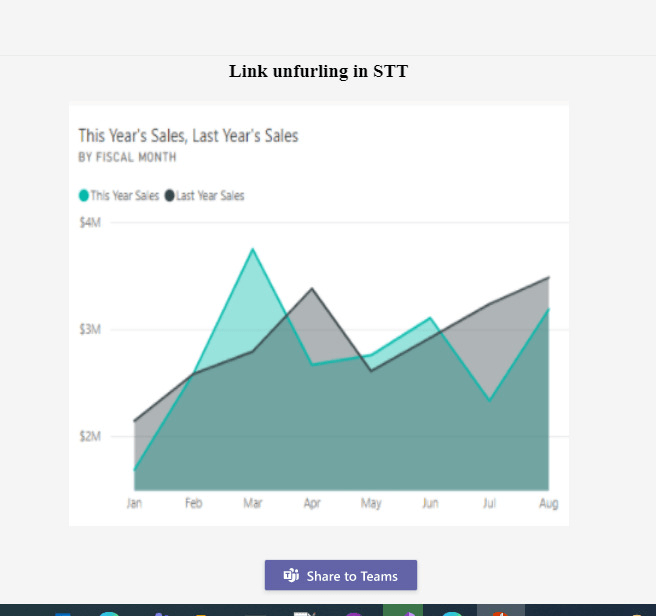
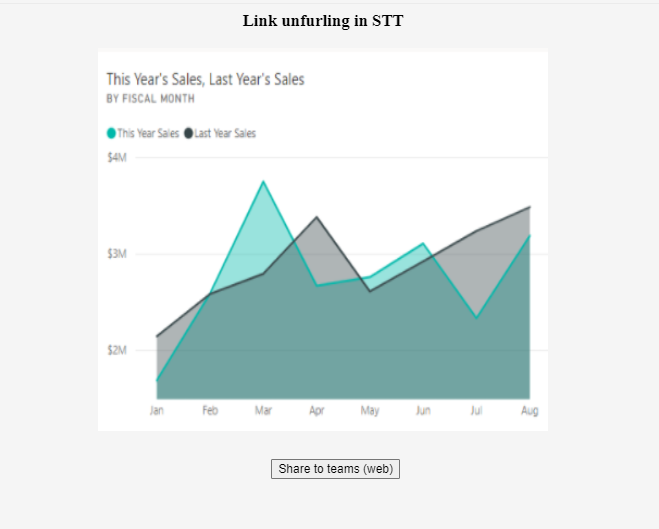
Added stage view functionality with share to teams button using sdk

diff --git a/samples/app-link-unfurling-in-share-to-teams/nodejs/bots/teamsBot.js b/samples/app-link-unfurling-in-share-to-teams/nodejs/bots/teamsBot.js
@@ -47,8 +47,26 @@ class TeamsBot extends TeamsActivityHandler {
             {
                 "type": "Action.OpenUrl",
                 "title": "Open tab",
-                "url": `https://teams.microsoft.com/l/entity/${process.env.MicrosoftAppId}/tab?webUrl=${process.env.ApplicationBaseUrl}/AuthTab`
-              }
+                "url": `https://teams.microsoft.com/l/entity/${process.env.MicrosoftAppId}/tab?webUrl=${process.env.ApplicationBaseUrl}/tab?openInTeams=true`
+              },
+              {
+                "type": "Action.Submit",
+                "title": "View via card",
+                "data": {
+                    "msteams": {
+                        "type": "invoke",
+                        "value": {
+                            "type": "tab/tabInfoAction",
+                            "tabInfo": {
+                                "contentUrl":  process.env.ApplicationBaseUrl + "/tab?openInTeams=true",
+                                "websiteUrl": process.env.ApplicationBaseUrl + "/tab?openInTeams=false",
+                                "name": "Stage view",
+                                "entityId": "entityId"
+                             }
+                            }
+                        }
+                }
+            }
           ]
         }
       

diff --git a/samples/app-link-unfurling-in-share-to-teams/nodejs/static/tab.css b/samples/app-link-unfurling-in-share-to-teams/nodejs/static/tab.css
@@ -6,7 +6,7 @@
    margin-left: 28rem;
 }
 
-#stt-btn {
+#stt-btn-teams, #stt-btn-web {
     margin-left: 40rem;
     margin-top: 2rem;
 }

diff --git a/samples/app-link-unfurling-in-share-to-teams/nodejs/README.md b/samples/app-link-unfurling-in-share-to-teams/nodejs/README.md
@@ -19,9 +19,13 @@ This sample demos the feature of link unfurling for share to teams (The Share to
 
 ## Key features
   
-  ![tab](Images/Tab.png)
+  ![tab](Images/Tab.PNG)
+
+  ![tab-web](Images/TabWeb.PNG)
   
   ![Link unfurling STT](Images/LinkUnfurlSTT.png)
+
+  ![Link unfurling sdk](Images/LinkUnfurlingSdk.PNG)
   
   ![Link unfurling card](Images/LinkUnfurlCard.png)
 
